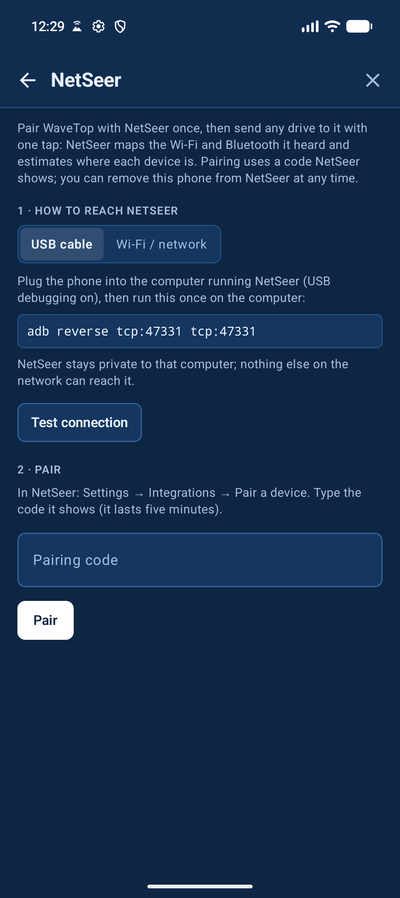
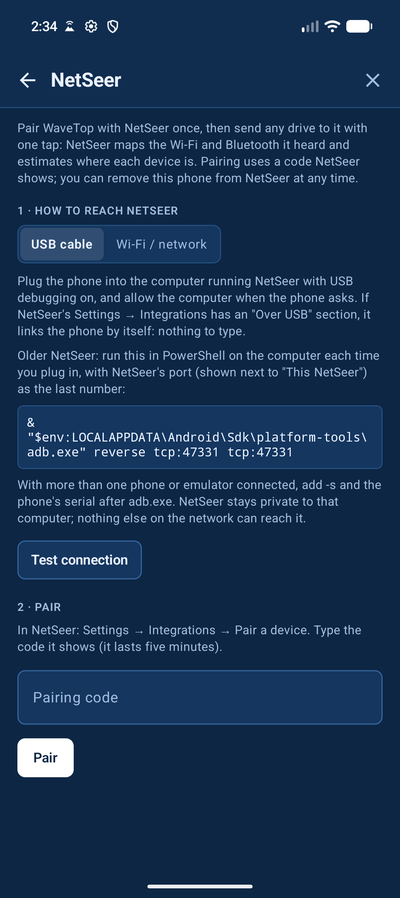
Pairing code stays above the keyboard; USB steps for current NetSeer
- Settings panes shrink above the keyboard (imePadding), and focusing the
  pairing code brings the field and the Pair button into view together.
- Pairing code takes digits only (NetSeer's codes are six digits) and
  opens the number pad.
- USB cable instructions: current NetSeer links plugged-in phones by
  itself; older NetSeer gets the full PowerShell adb path, the port note
  and the -s <serial> note. Same in the connection error, README and
  user guide; settings-netseer.png refreshed.

diff --git a/app/src/main/java/com/ardyn/wavetop/ui/settings/SettingsScreen.kt b/app/src/main/java/com/ardyn/wavetop/ui/settings/SettingsScreen.kt
@@ -15,11 +15,15 @@ import androidx.compose.foundation.layout.fillMaxHeight
 import androidx.compose.foundation.layout.fillMaxSize
 import androidx.compose.foundation.layout.fillMaxWidth
 import androidx.compose.foundation.layout.height
+import androidx.compose.foundation.layout.imePadding
 import androidx.compose.foundation.layout.navigationBarsPadding
 import androidx.compose.foundation.layout.padding
 import androidx.compose.foundation.layout.size
 import androidx.compose.foundation.layout.statusBarsPadding
 import androidx.compose.foundation.layout.width
+import androidx.compose.foundation.ExperimentalFoundationApi
+import androidx.compose.foundation.relocation.BringIntoViewRequester
+import androidx.compose.foundation.relocation.bringIntoViewRequester
 import androidx.compose.foundation.rememberScrollState
 import androidx.compose.foundation.shape.CircleShape
 import androidx.compose.foundation.shape.RoundedCornerShape
@@ -54,6 +58,7 @@ import androidx.compose.ui.graphics.vector.ImageVector
 import androidx.compose.ui.platform.LocalContext
 import androidx.compose.ui.res.painterResource
 import androidx.compose.ui.text.font.FontWeight
+import androidx.compose.ui.focus.onFocusChanged
 import androidx.compose.ui.text.input.KeyboardType
 import androidx.compose.ui.text.style.TextOverflow
 import androidx.compose.ui.unit.dp
@@ -93,6 +98,7 @@ import com.ardyn.wavetop.update.Releases
 import com.ardyn.wavetop.update.UpdatePhase
 import com.ardyn.wavetop.update.UpdateText
 import com.ardyn.wavetop.update.UpdaterState
+import kotlinx.coroutines.delay
 import kotlinx.coroutines.launch
 import java.io.File
 
@@ -215,6 +221,8 @@ private fun PaneBody(
     Column(
         modifier
             .fillMaxHeight()
+            // Shrink above the keyboard so the focused field (the pairing code) scrolls into view.
+            .imePadding()
             .verticalScroll(rememberScrollState())
             .padding(horizontal = 18.dp)
             .padding(bottom = 24.dp)
@@ -296,6 +304,7 @@ private fun GeneralPane(vm: AppViewModel, settings: Settings) {
 
 // --- NetSeer -------------------------------------------------------------------------------
 
+@OptIn(ExperimentalFoundationApi::class) // BringIntoViewRequester
 @Composable
 private fun NetSeerPane(vm: AppViewModel, view: ViewState, settings: Settings) {
     val c = Wt.colors
@@ -334,9 +343,18 @@ private fun NetSeerPane(vm: AppViewModel, view: ViewState, settings: Settings) {
     Spacer(Modifier.height(10.dp))
     when (settings.netSeerRoute) {
         NetSeerRoute.Usb -> {
-            Hint("Plug the phone into the computer running NetSeer (USB debugging on), then run this once on the computer:")
+            Hint(
+                "Plug the phone into the computer running NetSeer with USB debugging on, and allow the computer " +
+                    "when the phone asks. If NetSeer's Settings → Integrations has an \"Over USB\" section, it " +
+                    "links the phone by itself: nothing to type.",
+            )
+            Hint(
+                "Older NetSeer: run this in PowerShell on the computer each time you plug in, with NetSeer's " +
+                    "port (shown next to \"This NetSeer\") as the last number:",
+                Modifier.padding(top = 8.dp),
+            )
             Text(
-                "adb reverse tcp:47331 tcp:47331",
+                "& \"\$env:LOCALAPPDATA\\Android\\Sdk\\platform-tools\\adb.exe\" reverse tcp:47331 tcp:47331",
                 style = MonoStyle.copy(fontSize = 13.sp),
                 color = c.text,
                 modifier = Modifier
@@ -347,7 +365,7 @@ private fun NetSeerPane(vm: AppViewModel, view: ViewState, settings: Settings) {
                     .border(1.dp, c.line, RoundedCornerShape(6.dp))
                     .padding(10.dp),
             )
-            Hint("NetSeer stays private to that computer; nothing else on the network can reach it.")
+            Hint("With more than one phone or emulator connected, add -s and the phone's serial after adb.exe. NetSeer stays private to that computer; nothing else on the network can reach it.")
         }
         NetSeerRoute.Network -> {
             WtTextField(
@@ -371,17 +389,26 @@ private fun NetSeerPane(vm: AppViewModel, view: ViewState, settings: Settings) {
     SectionLabel("2 · Pair")
     Hint("In NetSeer: Settings → Integrations → Pair a device. Type the code it shows (it lasts five minutes).")
     Spacer(Modifier.height(8.dp))
-    WtTextField(
-        code,
-        { code = it.filter { ch -> ch.isLetterOrDigit() }.take(8).uppercase() },
-        "Pairing code",
-        placeholder = "ABC123",
-        mono = true,
-        onDone = { vm.pairNetSeer(code) },
-    )
-    Spacer(Modifier.height(10.dp))
-    WtButton("Pair", { vm.pairNetSeer(code) }, kind = BtnKind.Primary, enabled = view.netSeerTask !is TaskStatus.Working)
-    StatusLine(view.netSeerTask)
+    // Keep the code field and the Pair button above the keyboard together, not just the field.
+    val pairRow = remember { BringIntoViewRequester() }
+    val scope = rememberCoroutineScope()
+    Column(Modifier.bringIntoViewRequester(pairRow)) {
+        WtTextField(
+            code,
+            { code = it.filter(Char::isDigit).take(6) },
+            "Pairing code",
+            Modifier.onFocusChanged { focus ->
+                if (focus.isFocused) scope.launch { delay(350); pairRow.bringIntoView() }
+            },
+            placeholder = "123456",
+            keyboardType = KeyboardType.NumberPassword,
+            mono = true,
+            onDone = { vm.pairNetSeer(code) },
+        )
+        Spacer(Modifier.height(10.dp))
+        WtButton("Pair", { vm.pairNetSeer(code) }, kind = BtnKind.Primary, enabled = view.netSeerTask !is TaskStatus.Working)
+        StatusLine(view.netSeerTask)
+    }
 }
 
 // --- Your data -----------------------------------------------------------------------------

diff --git a/app/src/main/java/com/ardyn/wavetop/net/NetSeerClient.kt b/app/src/main/java/com/ardyn/wavetop/net/NetSeerClient.kt
@@ -13,8 +13,9 @@ object NetSeerAddress {
     const val DEFAULT_PORT = 47331
 
     /**
-     * Over a USB cable the phone talks to its own loopback; `adb reverse tcp:47331 tcp:47331` on the
-     * computer tunnels that port to NetSeer, which by default only listens on 127.0.0.1 anyway.
+     * Over a USB cable the phone talks to its own loopback; `adb reverse tcp:47331 tcp:<NetSeer's port>`
+     * on the computer tunnels that port to NetSeer, which by default only listens on 127.0.0.1 anyway.
+     * Current NetSeer sets the tunnel up itself for plugged-in phones.
      */
     const val USB_BASE_URL = "http://127.0.0.1:$DEFAULT_PORT"
 
@@ -152,7 +153,8 @@ object NetSeerClient {
         }
         is java.net.ConnectException -> "Nothing answered at $baseUrl. " +
             if (baseUrl == NetSeerAddress.USB_BASE_URL) {
-                "Is NetSeer running, the phone plugged in, and `adb reverse tcp:47331 tcp:47331` set up?"
+                "Is NetSeer running, the phone plugged in and unlocked, and USB debugging allowed for this computer? " +
+                    "(Older NetSeer also needs the adb reverse command from Settings → NetSeer.)"
             } else {
                 "Is NetSeer running with \"Allow devices on my network\" turned on?"
             }

diff --git a/docs/user-guide.md b/docs/user-guide.md
@@ -118,8 +118,20 @@ The buttons at the top **send it to NetSeer**, **share** it, or **delete** it. S
 Pair once (**Settings → NetSeer**):
 
 1. **How to reach NetSeer**
-   - **USB cable** — plug the phone into the computer running NetSeer (USB debugging on) and run
-     `adb reverse tcp:47331 tcp:47331` on the computer once. NetSeer stays private to that computer.
+   - **USB cable** — plug the phone into the computer running NetSeer with USB debugging on, and
+     allow the computer when the phone asks. NetSeer links the phone by itself — its **Settings →
+     Integrations → Over USB** lists linked phones — so there's nothing to type, and it re-links after
+     you unplug and plug back in. NetSeer stays private to that computer.
+
+     Older NetSeer versions without **Over USB** need this in PowerShell on the computer each time you
+     plug in, with the port NetSeer shows next to **This NetSeer** as the last number:
+
+     ```powershell
+     & "$env:LOCALAPPDATA\Android\Sdk\platform-tools\adb.exe" reverse tcp:47331 tcp:47331
+     ```
+
+     With more than one phone or emulator connected, add `-s <serial>` after `adb.exe`
+     (`adb.exe devices` lists serials).
    - **Wi-Fi / network** — in NetSeer turn on **Settings → Integrations → Allow devices on my
      network**, then type the address it shows.
 

diff --git a/README.md b/README.md
@@ -75,8 +75,11 @@ version over a newer one, so rolling back means uninstalling first — back up y
 In NetSeer: **Settings → Integrations → Pair a device** shows a six-digit code. In WaveTop:
 **Settings → NetSeer**, choose how to reach it, type the code, **Pair**.
 
-- **USB cable** — phone plugged into the computer running NetSeer, USB debugging on, then on the computer:
-  `adb reverse tcp:47331 tcp:47331`. NetSeer stays private to that computer.
+- **USB cable** — plug the phone into the computer running NetSeer with USB debugging on and allow the
+  computer when asked. NetSeer links it by itself (**Settings → Integrations → Over USB** lists linked
+  phones) — nothing to type. Older NetSeer versions without that section need, in PowerShell, each time
+  you plug in: `& "$env:LOCALAPPDATA\Android\Sdk\platform-tools\adb.exe" reverse tcp:47331 tcp:<NetSeer's port>`
+  (add `-s <serial>` after `adb.exe` if more than one device is connected). NetSeer stays private to that computer.
 - **Wi-Fi / network** — turn on **Allow devices on my network** in NetSeer's Integrations and type the
   address it shows.
 
